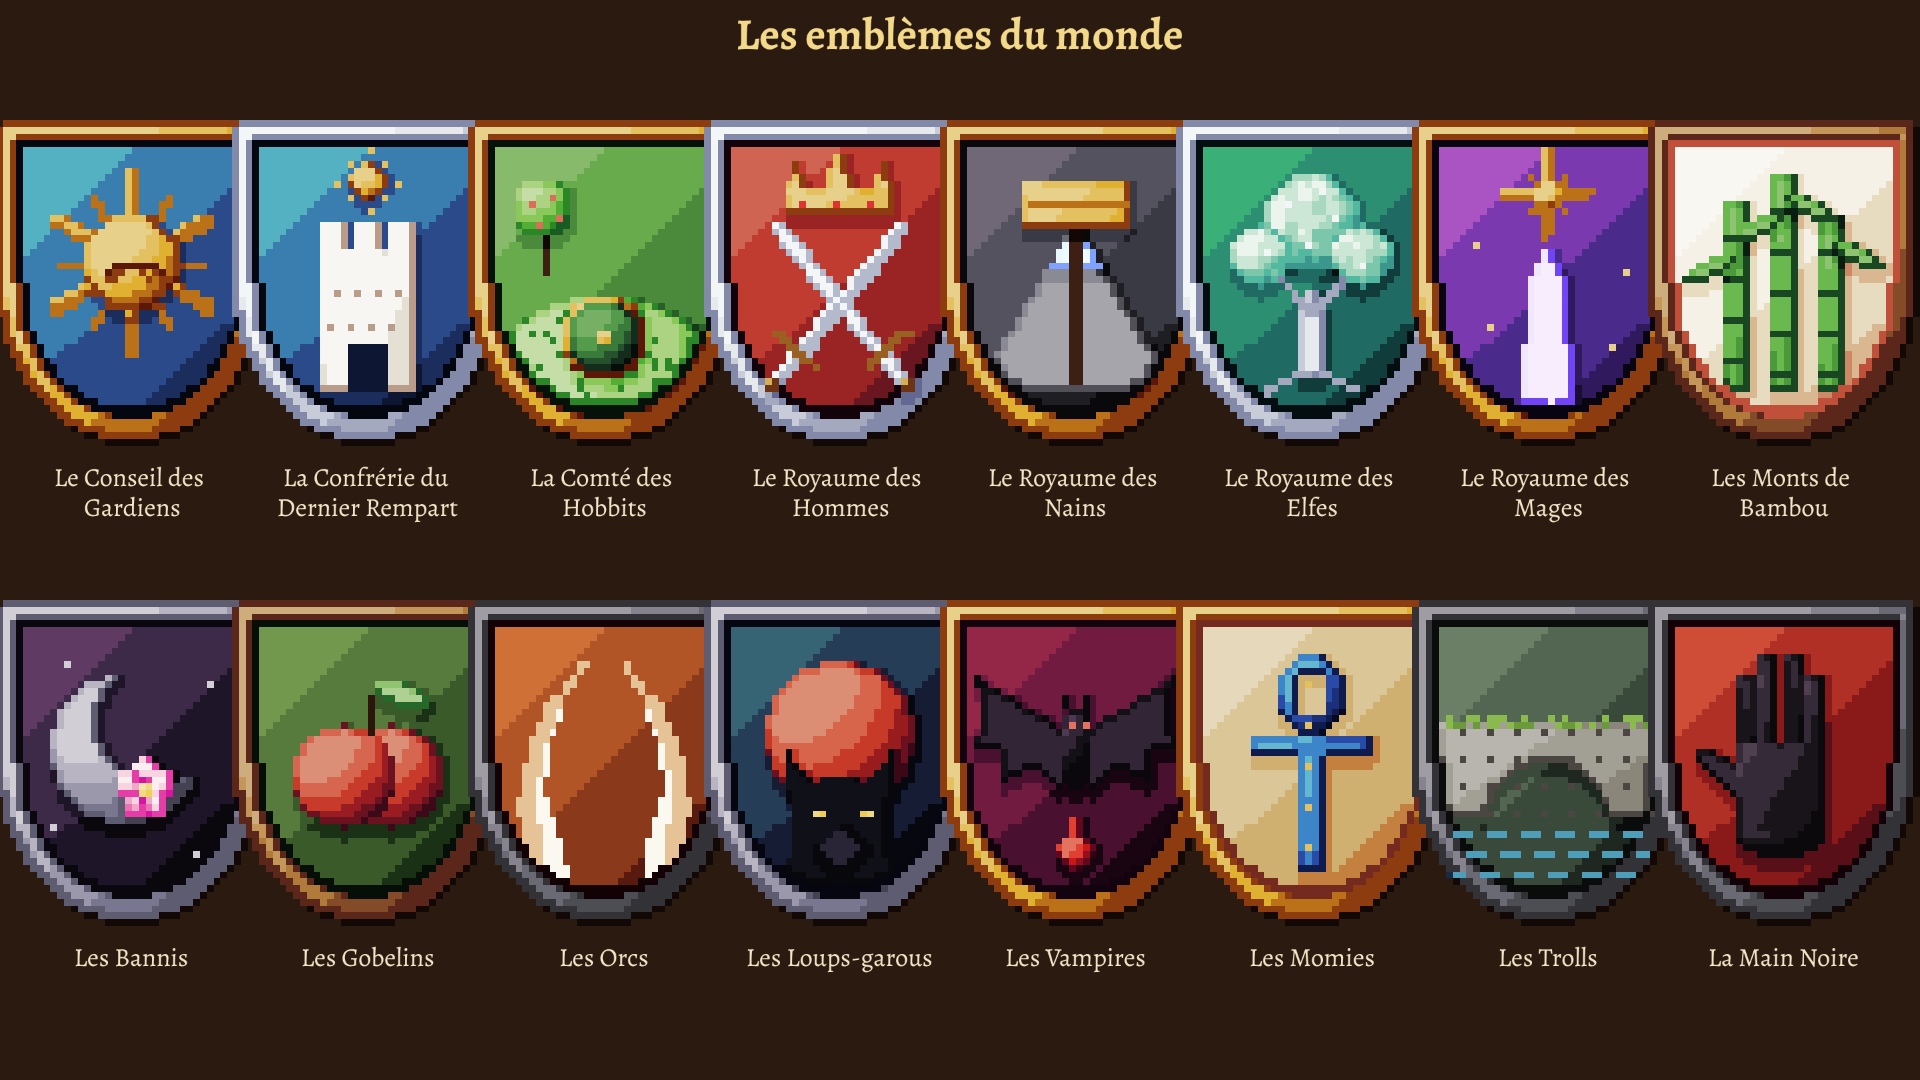
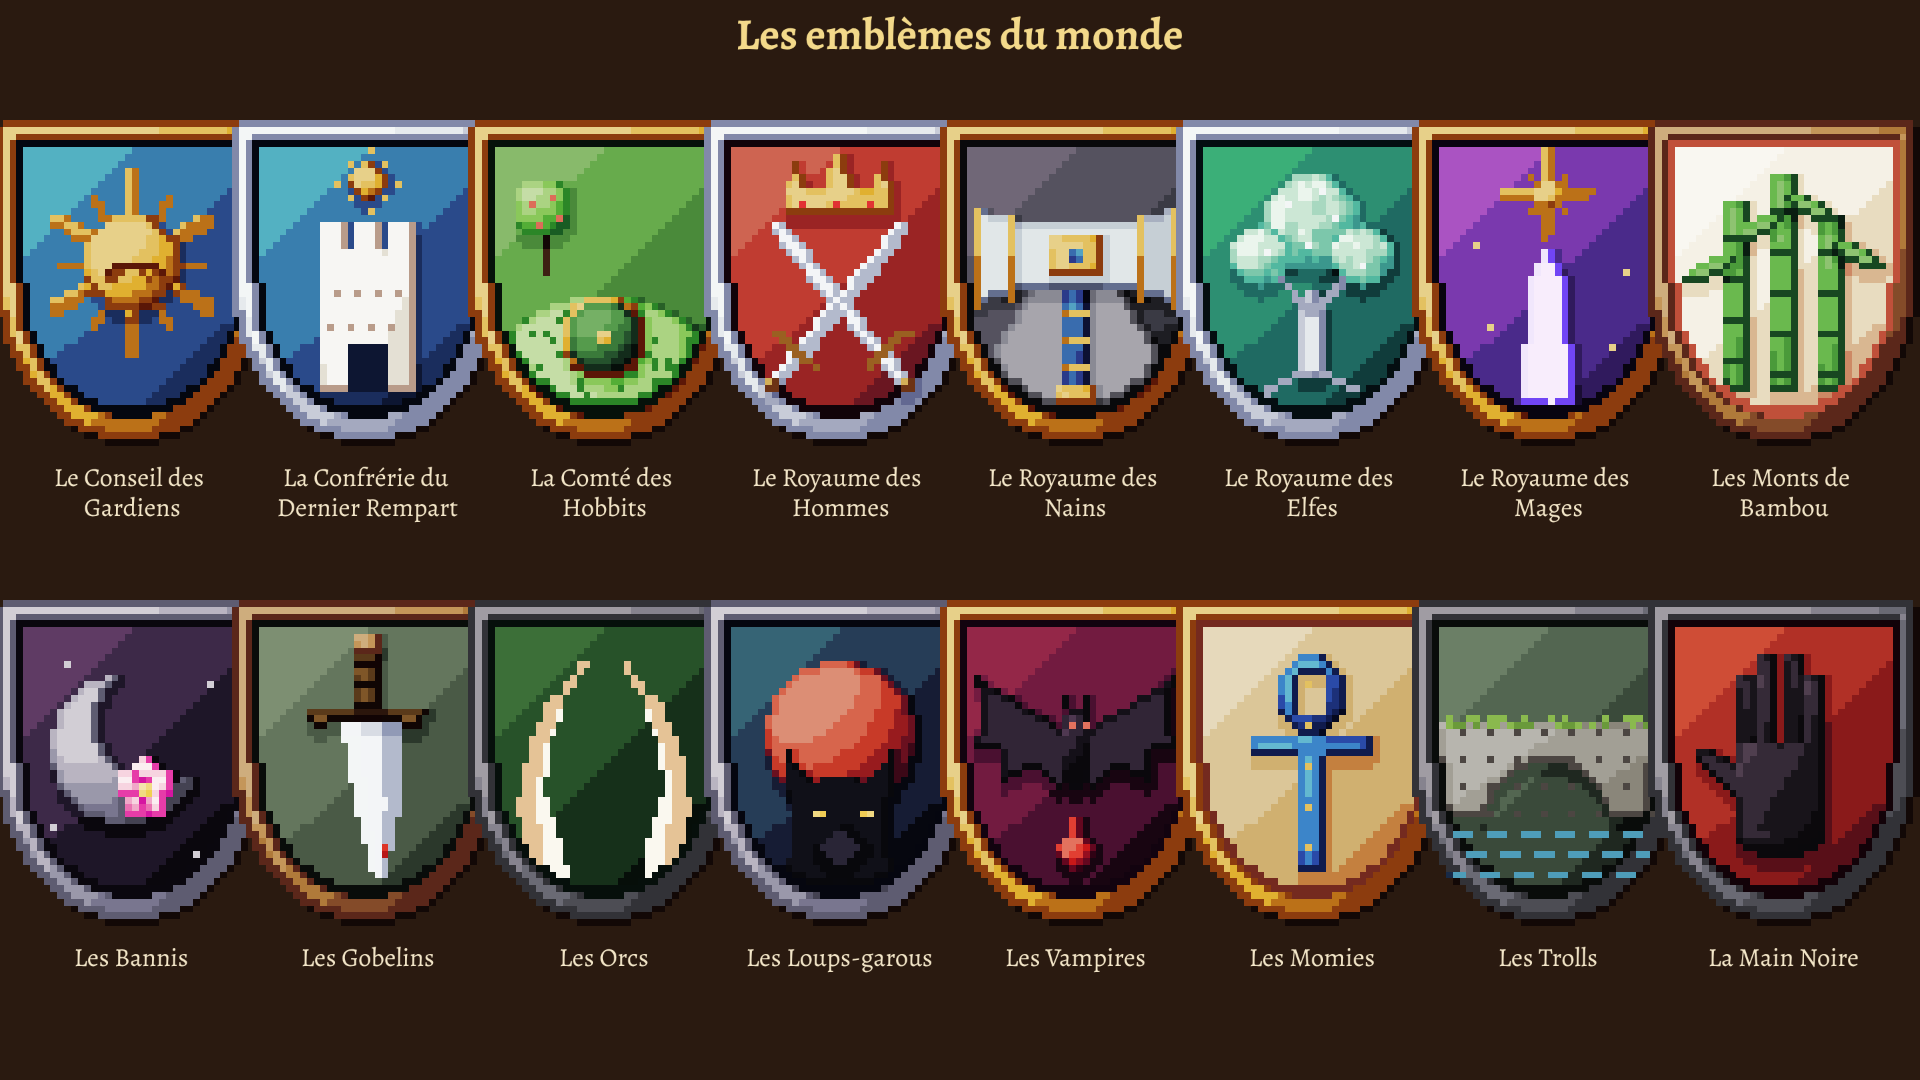
v0.55 : numéro de version et planches
Claude-Session: https://claude.ai/code/session_018kbaP56NxxNMUzmj9EfKBC

Changed region(s): [[0.125, 0.5806, 0.375, 0.825], [0.5, 0.1528, 0.625, 0.3972]]

diff --git a/src/main.js b/src/main.js
@@ -1,5 +1,5 @@
 // La version du jeu (affichée sur l'écran titre) : on l'augmente à chaque mise à jour publiée.
-const VERSION_JEU = 'v 0.54';
+const VERSION_JEU = 'v 0.55';
 // Point d'entrée : configuration de Phaser et liste des scènes.
 
 // Le jeu est en pixel art (pixels nets), mais les textes doivent rester lisses et lisibles :

diff --git a/docs/game-design.md b/docs/game-design.md
@@ -478,4 +478,4 @@ Relevé de toutes les idées exprimées au fil de la conversation et pas encore 
 - Le ravitaillement et le cœur commandes / colis ; états (empoisonné) et demi-cœurs (pistes) ; les effets de la chambre ; les déblocages de chaque palier à valider avec le joueur ; la conquête des lieux n'a d'effet que quand l'auberge peut déménager.
 
 ### Diffusion
-- L'artefact claude.ai est en v 0.54 (registre, correctifs des audits ; sans la nouvelle carte, en attente de validation). `main` (Cloudflare) est en v 0.51 (adresse goyland.workers.dev) : toujours demander au joueur avant de pousser les versions suivantes ; l'artefact claude.ai se publie sans demander, sauf quand il y a de nouveaux designs graphiques (le joueur veut voir les planches d'abord).
+- L'artefact claude.ai est en v 0.55 (carte du grand monde, 30 contrées, emblèmes, retouches des peuples, sauts de temps). `main` (Cloudflare) est en v 0.51 (adresse goyland.workers.dev) : toujours demander au joueur avant de pousser les versions suivantes ; l'artefact claude.ai se publie sans demander, sauf quand il y a de nouveaux designs graphiques (le joueur veut voir les planches d'abord).
